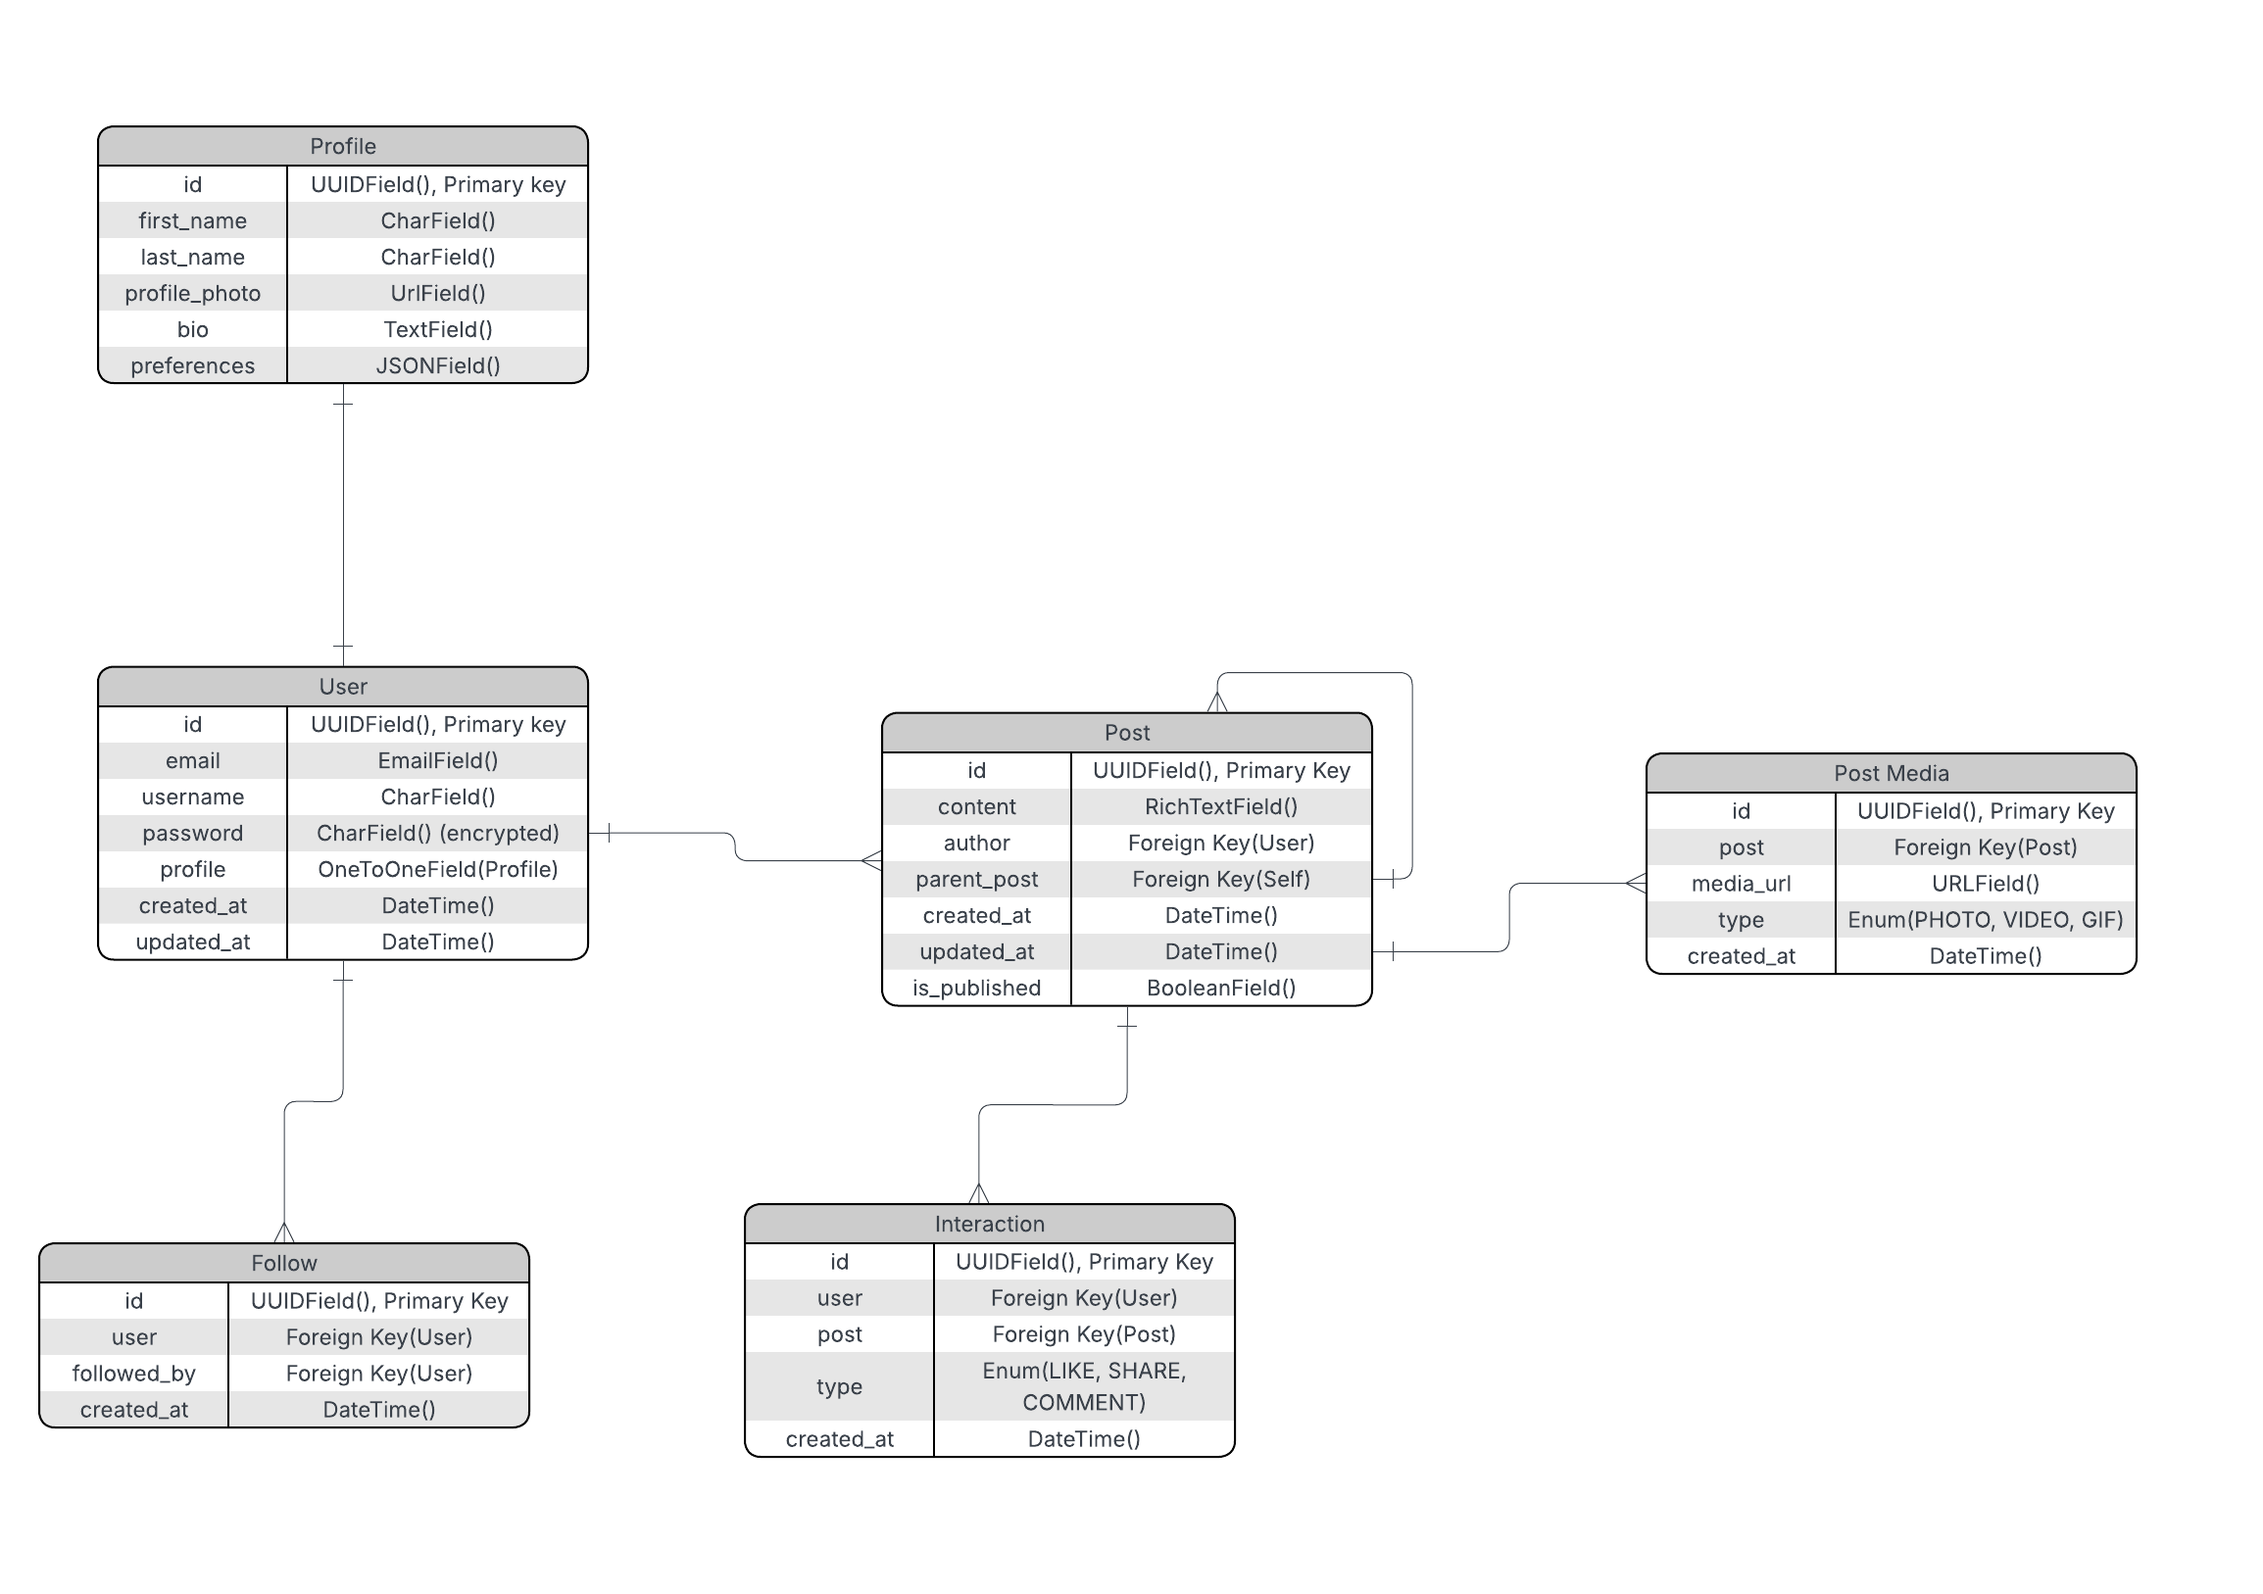
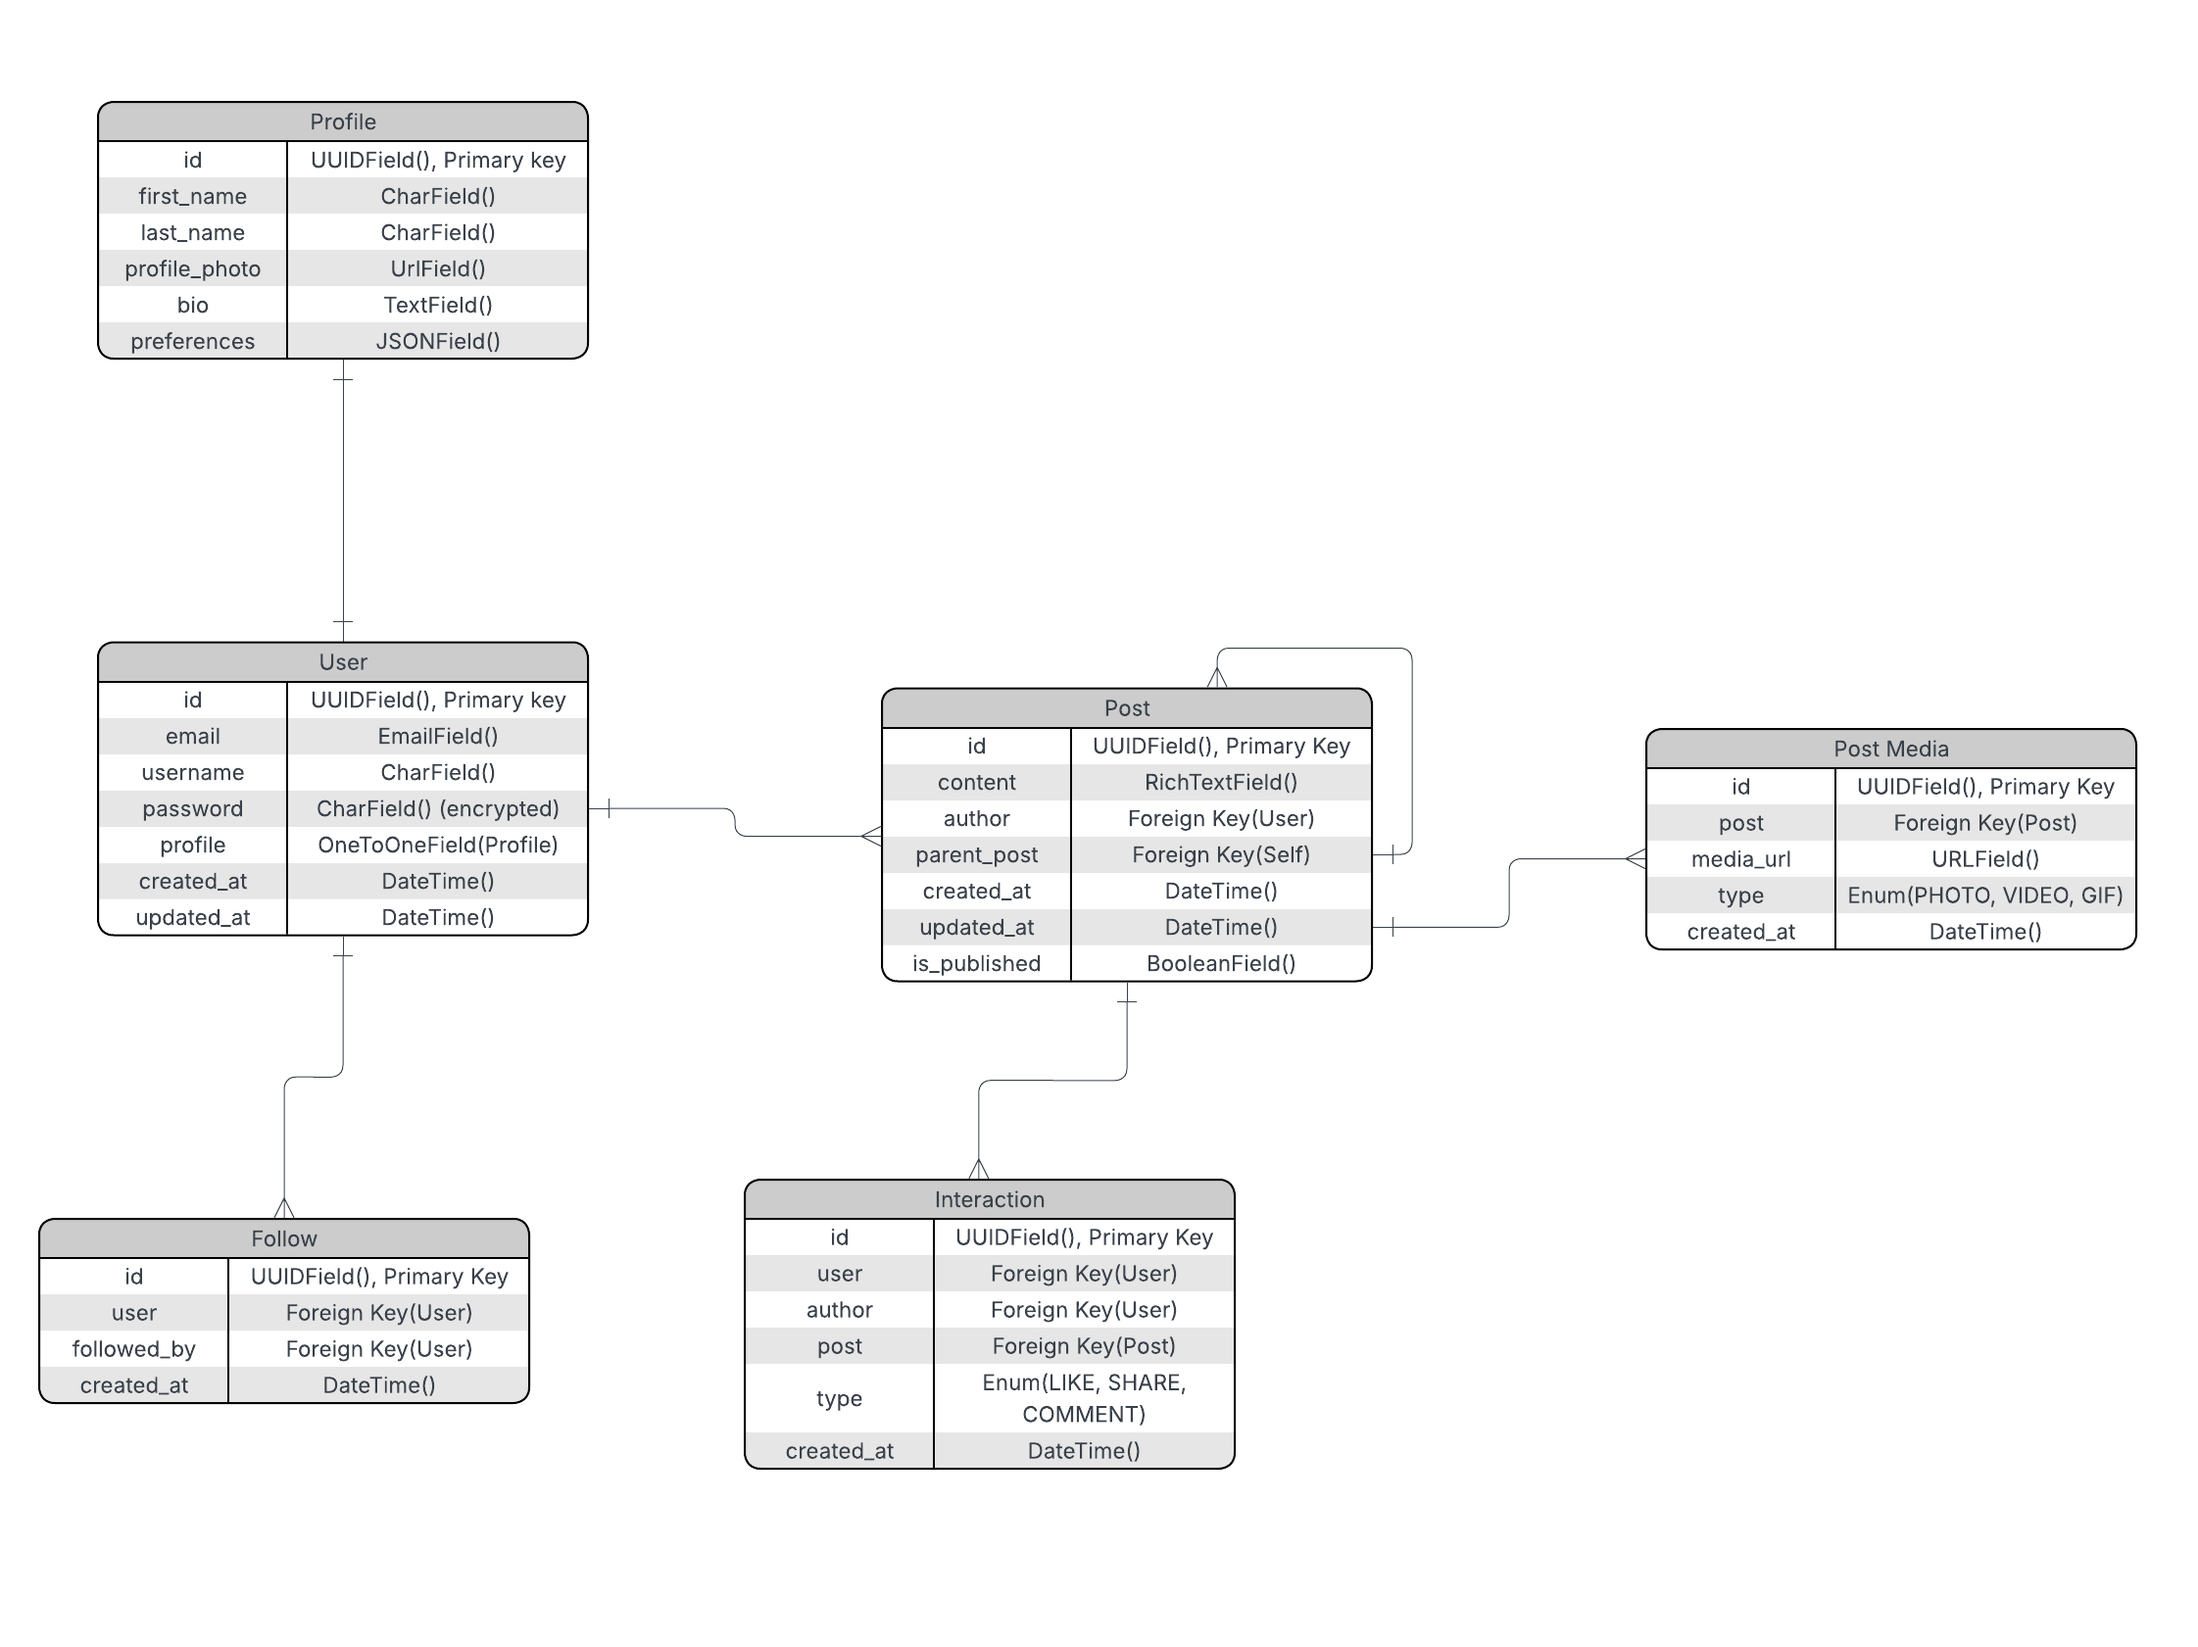
feat: Authentication setup with graphql-auth and graphql-jwt

diff --git a/api/social_media_project/settings.py b/api/social_media_project/settings.py
@@ -40,19 +40,56 @@ INSTALLED_APPS = [
     'django.contrib.messages',
     'django.contrib.staticfiles',
     'django', 
-    'rest_framework',
-    'rest_framework_simplejwt',
-    'rest_framework_simplejwt.token_blacklist',
+    # 'rest_framework',
+    # 'rest_framework_simplejwt',
+    # 'rest_framework_simplejwt.token_blacklist', no need to re-invent the wheel
     'corsheaders',
+    'django_filters',
     'drf_spectacular',
     'drf_spectacular_sidecar', # required for Django collectstatic discovery
     'user_management',
-    'social_media'
+    'social_media', 
+
+    'graphene_django', 
+    'graphql_jwt.refresh_token.apps.RefreshTokenConfig',
+    'graphql_auth'
 ]
 
 
+# ======================================================================================================================
+# Django Graphql settings
 
+GRAPHENE = {
+    "SCHEMA": "social_media_project.schema.schema",
+    'MIDDLEWARE': [
+        'graphql_jwt.middleware.JSONWebTokenMiddleware',
+    ],
+}
+GRAPHQL_JWT = {
+    "JWT_VERIFY_EXPIRATION": True,
 
+    "JWT_LONG_RUNNING_REFRESH_TOKEN": True,
+    "JWT_ALLOW_ANY_CLASSES": [
+        "graphql_auth.mutations.Register",
+        "graphql_auth.mutations.VerifyAccount",
+        "graphql_auth.mutations.ObtainJSONWebToken",
+        "graphql_auth.mutations.ResendActivationEmail",
+        "graphql_auth.mutations.SendPasswordResetEmail",
+        "graphql_auth.mutations.PasswordReset",
+        "graphql_auth.mutations.VerifyToken",
+        "graphql_auth.mutations.RefreshToken",
+        "graphql_auth.mutations.RevokeToken",
+    ],
+}
+GRAPHQL_AUTH = {
+    'EMAIL_VERIFICATION': True, # Enforce that users verify their account before login.
+    "REGISTER_MUTATION_FIELDS": ["username", "email"],
+    "UPDATE_MUTATION_FIELDS": ["username"]
+}
+
+AUTHENTICATON_BACKENDS = [
+    "graphql_auth.backends.GraphQLAuthBackend"
+]
 
 CORS_ALLOW_ALL_ORIGINS = True
 # CORS_ALLOWED_ORIGINS = [
@@ -142,13 +179,13 @@ SPECTACULAR_SETTINGS = {
 
 # ======================================================================================================================
 # Django Rest Framework Configurations
-REST_FRAMEWORK = {
-    "DEFAULT_SCHEMA_CLASS": "drf_spectacular.openapi.AutoSchema",
-    "DEFAULT_PERMISSION_CLASSES": ("rest_framework.permissions.IsAuthenticated",),
-    "DEFAULT_AUTHENTICATION_CLASSES": (
-        "rest_framework_simplejwt.authentication.JWTAuthentication",
-    ),
-}
+# REST_FRAMEWORK = {
+#     "DEFAULT_SCHEMA_CLASS": "drf_spectacular.openapi.AutoSchema",
+#     "DEFAULT_PERMISSION_CLASSES": ("rest_framework.permissions.IsAuthenticated",),
+#     "DEFAULT_AUTHENTICATION_CLASSES": (
+#         "rest_framework_simplejwt.authentication.JWTAuthentication",
+#     ),
+# }
 
 
 SIMPLE_JWT = {
@@ -175,6 +212,10 @@ TIME_ZONE = 'UTC'
 USE_I18N = True
 
 USE_TZ = True
+
+# Email configs
+
+EMAIL_BACKEND = "django.core.mail.backends.console.EmailBackend"
 
 
 # Static files (CSS, JavaScript, Images)

diff --git a/api/social_media_project/urls.py b/api/social_media_project/urls.py
@@ -15,9 +15,11 @@ Including another URLconf
     2. Add a URL to urlpatterns:  path('blog/', include('blog.urls'))
 """
 from django.contrib import admin
-from django.urls import path
+from django.urls import path, include
 from drf_spectacular.views import SpectacularAPIView, SpectacularRedocView, SpectacularSwaggerView
+from django.views.decorators.csrf import csrf_exempt
 
+from graphene_django.views import GraphQLView
 
 urlpatterns = [
     path('admin/', admin.site.urls),
@@ -27,4 +29,6 @@ urlpatterns += [
     path('api/schema/', SpectacularAPIView.as_view(), name='schema'),
     path('api/schema/swagger-ui/', SpectacularSwaggerView.as_view(url_name='schema'), name='swagger-ui'),
     path('api/schema/redoc/', SpectacularRedocView.as_view(url_name='schema'), name='redoc'),
+     path("graphql", csrf_exempt(GraphQLView.as_view(graphiql=True))),
+      path("graphql/playground/", include("django_graphql_playground.urls")),
 ]

diff --git a/api/user_management/schema.py b/api/user_management/schema.py
@@ -1,0 +1,21 @@
+import graphene
+from graphql_auth import mutations
+
+
+
+
+
+class AuthMutation(graphene.ObjectType):
+    register = mutations.Register.Field()
+    verify_account = mutations.VerifyAccount.Field()
+    token_auth = mutations.ObtainJSONWebToken.Field()
+    verify_token = mutations.VerifyToken.Field()
+    refresh_token = mutations.RefreshToken.Field()
+    revoke_token = mutations.RevokeToken.Field()
+    update_account = mutations.UpdateAccount.Field()
+    resend_activation_email = mutations.ResendActivationEmail.Field()
+    send_password_reset_email = mutations.SendPasswordResetEmail.Field()
+    password_reset = mutations.PasswordReset.Field()
+    password_change = mutations.PasswordChange.Field()
+
+

diff --git a/api/social_media/migrations/0004_postmedia_metadata_postmedia_mime_type.py b/api/social_media/migrations/0004_postmedia_metadata_postmedia_mime_type.py
@@ -1,0 +1,23 @@
+# Generated by Django 5.2.8 on 2025-11-25 13:37
+
+from django.db import migrations, models
+
+
+class Migration(migrations.Migration):
+
+    dependencies = [
+        ('social_media', '0003_alter_profile_preferences'),
+    ]
+
+    operations = [
+        migrations.AddField(
+            model_name='postmedia',
+            name='metadata',
+            field=models.JSONField(blank=True, default=dict, null=True),
+        ),
+        migrations.AddField(
+            model_name='postmedia',
+            name='mime_type',
+            field=models.CharField(blank=True, max_length=20, null=True),
+        ),
+    ]

diff --git a/api/social_media/models.py b/api/social_media/models.py
@@ -46,7 +46,9 @@ class PostMedia(models.Model):
     post = models.ForeignKey(Post, on_delete=models.CASCADE, related_name="attachments")
     media_url = models.URLField()
     type = models.CharField(max_length=10, choices=media_types, default="PHOTO")
+    metadata = models.JSONField(default=dict, blank=True, null=True)
     created_at = models.DateTimeField(auto_now_add=True)
+    mime_type = models.CharField(max_length=20, blank=True, null=True)
     constraints = [
         models.CheckConstraint(check=Q(type__in=['PHOTO','VIDEO','GIF']), name='valid_interaction_type'),
     ]

diff --git a/api/social_media_project/schema.py b/api/social_media_project/schema.py
@@ -1,0 +1,14 @@
+import graphene
+
+from graphql_auth.schema import UserQuery, MeQuery
+from user_management.schema import AuthMutation
+
+class Query(UserQuery, MeQuery, graphene.ObjectType):
+    pass
+
+class Mutation(AuthMutation, graphene.ObjectType):
+    pass 
+
+
+
+schema = graphene.Schema(query=Query, mutation=Mutation)

diff --git a/api/user_management/apps.py b/api/user_management/apps.py
@@ -5,5 +5,6 @@ class UserManagementConfig(AppConfig):
     default_auto_field = 'django.db.models.BigAutoField'
     name = 'user_management'
     def ready(self):
-        from . import signals
+        import user_management.signals
+        import graphql_auth.signals
         super().ready()
